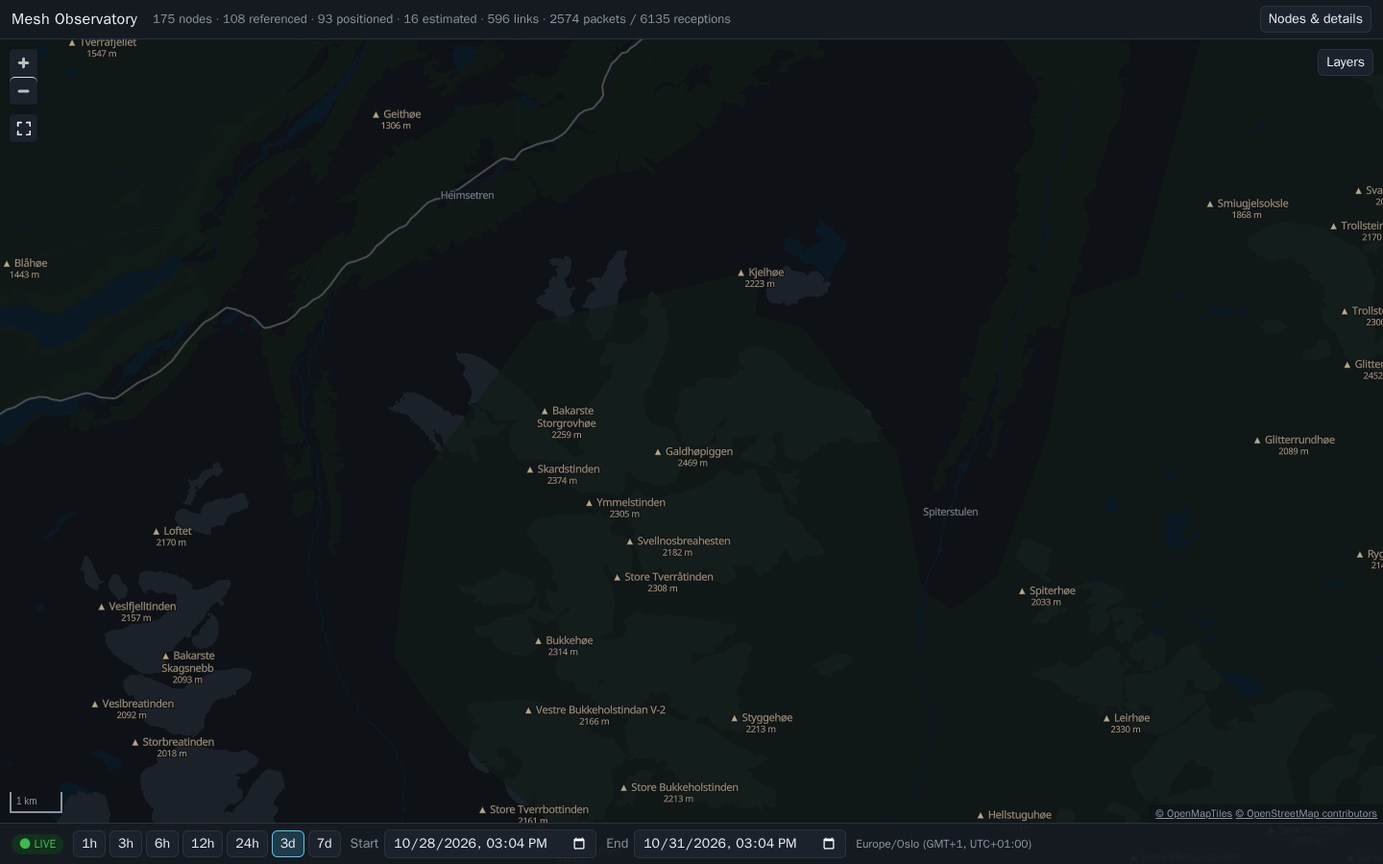
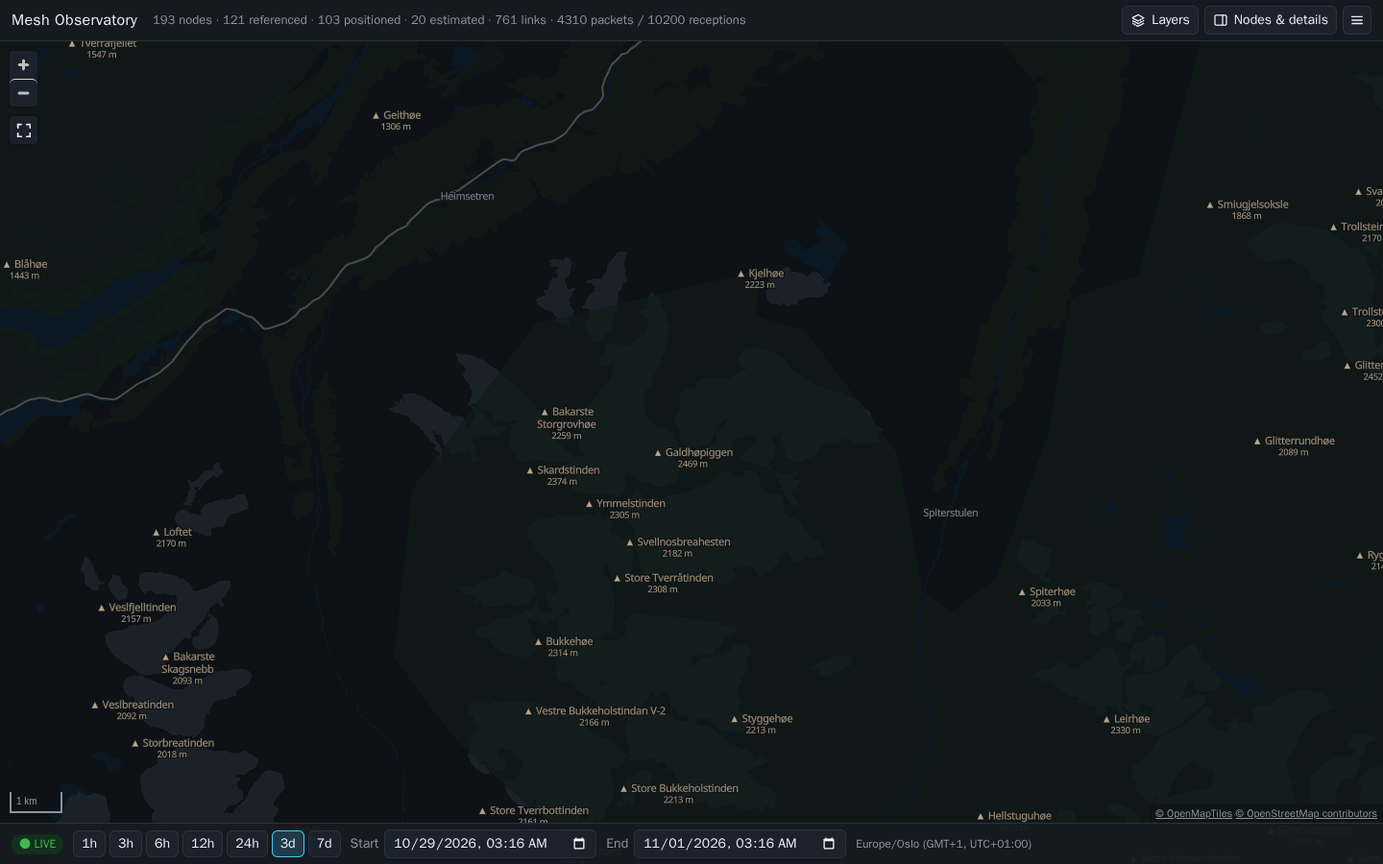
Gather app controls in the top bar; theme and site links in a menu
Layers, the side panel toggle and a new menu sit together at the right of
the top bar; the menu holds Theme (Auto/Light/Dark), Install app and the
links to source code, license and privacy policy. The map keeps only map
controls and the required map credits (D-052). Docs screenshots refreshed.

diff --git a/frontend/src/index.css b/frontend/src/index.css
@@ -79,7 +79,7 @@ button[aria-pressed='true'], button[aria-selected='true'] { background: var(--pr
 
 /* overflow: hidden clips the collapsed time bar, which is translated below the viewport. */
 .app { position: relative; display: grid; grid-template-rows: auto 1fr; height: 100%; overflow: hidden; --tl-peek: 52px; }
-.topbar { display: flex; align-items: center; gap: 16px; padding: 6px 12px; border-bottom: 1px solid var(--line); background: var(--panel); min-height: 40px; }
+.topbar { position: relative; z-index: 10; display: flex; align-items: center; gap: 16px; padding: 6px 12px; border-bottom: 1px solid var(--line); background: var(--panel); min-height: 40px; }
 .topbar h1 { font-size: 16px; margin: 0; letter-spacing: 0.02em; }
 .counters { color: var(--muted); font-size: 13px; }
 .spinner { width: 12px; height: 12px; border: 2px solid var(--line); border-top-color: var(--accent); border-radius: 50%; animation: spin 0.8s linear infinite; }
@@ -89,23 +89,33 @@ button[aria-pressed='true'], button[aria-selected='true'] { background: var(--pr
 .sidebar[hidden] { display: none; }
 /* The side panel overlays the map (no resize). Map controls on the right
    move clear of it while it is open. */
-.main:not(.panel-closed) .map-tools, .main:not(.panel-closed) .layers-panel, .main:not(.panel-closed) .coords { right: 390px; }
+.main:not(.panel-closed) .coords { right: 390px; }
 .main:not(.panel-closed) .attribution { right: 380px; }
-.panel-toggle { margin-left: auto; }
-.install-btn { margin-left: auto; }
-.install-btn + .panel-toggle { margin-left: 0; }
-.topbar-link { display: grid; place-items: center; color: var(--muted); padding: 4px; border-radius: 6px; }
-.topbar-link:hover { color: var(--text); }
+/* Every app control lives here, right-aligned: map layers, the side panel and the menu. */
+.topbar-actions { position: relative; margin-left: auto; display: flex; align-items: center; gap: 6px; }
+.topbar-actions > button { display: inline-flex; align-items: center; gap: 6px; height: 30px; }
+.topbar-actions > .icon-btn { width: 30px; justify-content: center; padding: 0; }
+/* Popovers drop from the top bar, over the map and the side panel. */
+.popover { position: absolute; top: calc(100% + 8px); right: 0; width: 260px; max-height: calc(100vh - 120px); overflow: auto; background: var(--overlay-strong); border: 1px solid var(--line); border-radius: 6px; padding: 4px 12px 10px; box-shadow: 0 6px 18px var(--shadow); }
+.popover h3 { font-size: 12px; text-transform: uppercase; letter-spacing: 0.06em; color: var(--muted); margin: 10px 0 4px; }
+.popover label { display: block; margin: 3px 0; }
+.segmented { display: flex; border: 1px solid var(--line); border-radius: 6px; overflow: hidden; }
+.segmented label { position: relative; flex: 1; margin: 0; text-align: center; cursor: pointer; }
+/* The radio covers its segment, invisible: clicks and keyboard reach it as usual. */
+.segmented input { position: absolute; inset: 0; width: 100%; height: 100%; margin: 0; opacity: 0; cursor: pointer; }
+.segmented span { display: block; padding: 4px 6px; font-size: 13px; }
+.segmented label + label span { border-left: 1px solid var(--line); }
+.segmented input:checked + span { background: var(--pressed); color: var(--text); }
+.segmented input:focus-visible + span { outline: 2px solid var(--accent); outline-offset: -2px; }
+.menu-item { display: block; width: 100%; text-align: left; padding: 5px 2px; color: var(--text); background: none; border: 0; border-radius: 4px; text-decoration: none; }
+.menu-item:hover { color: var(--accent); }
+.menu-foot { margin: 8px 0 0; font-size: 12px; }
 .map-wrap { position: relative; min-height: 0; }
 .map { position: absolute; inset: 0; }
-.map-tools { position: absolute; top: 10px; right: 10px; display: flex; gap: 6px; }
 /* Sits under MapLibre's zoom buttons (top-left), styled as one of them. */
 .fit-ctrl { position: absolute; top: 78px; left: 10px; margin: 0 !important; z-index: 2; }
 .fit-ctrl button { display: grid; place-items: center; color: var(--text); border: none; border-radius: 4px; padding: 0; width: 29px; height: 29px; background: transparent; }
 .fit-ctrl button:disabled { opacity: 0.35; }
-.layers-panel { position: absolute; top: 46px; right: 10px; z-index: 6; width: 240px; max-height: calc(100% - 90px); overflow: auto; background: var(--overlay-strong); border: 1px solid var(--line); border-radius: 6px; padding: 4px 12px 10px; }
-.layers-panel h3 { font-size: 12px; text-transform: uppercase; letter-spacing: 0.06em; color: var(--muted); margin: 10px 0 4px; }
-.layers-panel label { display: block; margin: 3px 0; }
 .attribution { position: absolute; right: 0; bottom: 0; font-size: 11px; background: var(--overlay); padding: 2px 6px; color: var(--muted); }
 .attribution a { color: var(--muted); }
 .coords { position: absolute; bottom: 28px; right: 10px; font: 12px ui-monospace, monospace; color: var(--muted); background: var(--overlay); padding: 2px 6px; border-radius: 4px; }
@@ -233,11 +243,16 @@ table.hear th, table.hear td { text-align: left; padding: 2px 4px; border-bottom
 @media (max-width: 820px) {
   /* Bottom sheet over the map. */
   .sidebar { top: auto; left: 0; width: auto; height: 45vh; border-left: none; border-top: 1px solid var(--line); box-shadow: 0 -6px 18px var(--shadow); }
-  .main:not(.panel-closed) .map-tools, .main:not(.panel-closed) .layers-panel, .main:not(.panel-closed) .coords { right: 10px; }
+  .main:not(.panel-closed) .coords { right: 10px; }
   .main:not(.panel-closed) .attribution { right: 0; bottom: calc(45vh + var(--tl-peek)) !important; }
   .banners, .main:not(.panel-closed) .banners { right: 10px; left: 10px; }
   .counters { display: none; }
   .readout { min-width: 0; }
+}
+/* Phones: the top-bar buttons show only their icons. */
+@media (max-width: 560px) {
+  .btn-label { display: none; }
+  .topbar-actions > button { width: 30px; justify-content: center; padding: 0; }
 }
 @media (prefers-reduced-motion: reduce) {
   .spinner { animation: none; }

diff --git a/frontend/src/App.tsx b/frontend/src/App.tsx
@@ -6,13 +6,13 @@ import { addTransmission, clearPings, painting, pingWanted, setPingPositions } f
 import Timeline from './timeline/Timeline'
 import { usePwa } from './pwa'
 import { EdgePanel, NodeList, NodePanel } from './features/panels'
-import { FilterPanel, Legend } from './features/controls'
+import { FilterPanel, LayersPanel, Legend } from './features/controls'
+import { AppMenu } from './features/menu'
 import { useCapabilities, useLiveEpoch, useRetention, useSnapshot, useTraffic } from './state/data'
 import { initDerive, onTransmissions, sendLiveRows } from './derive/client'
 import { apiParams, defaultFilters, fromQuery, toQuery, useStore, type Filters } from './state/store'
 import type { ObsRow } from './api/types'
 import { applyTheme, useTheme } from './theme'
-import { REPO_URL } from './links'
 
 /** A live row passes the view filters (the stream itself is unfiltered). */
 function passes(r: ObsRow, f: Filters): boolean {
@@ -37,6 +37,23 @@ export default function App() {
   const geo = useRef<Map<string, [number, number]>>(new Map())
   const theme = useTheme()
   useEffect(() => applyTheme(theme), [theme])
+  // One top-bar popover at a time; Escape or a click elsewhere closes it.
+  const [popover, setPopover] = useState<'layers' | 'menu' | null>(null)
+  const actions = useRef<HTMLDivElement>(null)
+  useEffect(() => {
+    if (!popover) return
+    const away = (e: Event) => {
+      if (!actions.current?.contains(e.target as Node)) setPopover(null)
+    }
+    const esc = (e: KeyboardEvent) => e.key === 'Escape' && setPopover(null)
+    document.addEventListener('pointerdown', away)
+    document.addEventListener('keydown', esc)
+    return () => {
+      document.removeEventListener('pointerdown', away)
+      document.removeEventListener('keydown', esc)
+    }
+  }, [popover])
+  const toggleOpen = (p: 'layers' | 'menu') => setPopover((o) => (o === p ? null : p))
   const onPositions = useCallback((pos: Map<string, [number, number]>) => {
     geo.current = pos
     setPingPositions(pos) // pings follow the markers as estimates move
@@ -163,15 +180,21 @@ export default function App() {
           </span>
         )}
         {snap.isFetching && <span className="spinner" aria-label="Updating" />}
-        {canInstall && <button className="install-btn" onClick={install} title="Install Mesh Observatory as an app on this device">Install app</button>}
-        <button className="panel-toggle" aria-expanded={panelOpen} aria-controls="sidebar" onClick={togglePanel} title={panelOpen ? 'Hide the side panel' : 'Show nodes, details, filters and legend'}>
-          {panelOpen ? 'Hide panel' : 'Nodes & details'}
-        </button>
-        <a className="topbar-link" href={REPO_URL} target="_blank" rel="noreferrer" title="Source code on GitHub (GPL-3.0)" aria-label="Source code on GitHub">
-          <svg viewBox="0 0 16 16" width="18" height="18" aria-hidden="true" fill="currentColor">
-            <path d="M8 0C3.58 0 0 3.58 0 8c0 3.54 2.29 6.53 5.47 7.59.4.07.55-.17.55-.38 0-.19-.01-.82-.01-1.49-2.01.37-2.53-.49-2.69-.94-.09-.23-.48-.94-.82-1.13-.28-.15-.68-.52-.01-.53.63-.01 1.08.58 1.23.82.72 1.21 1.87.87 2.33.66.07-.52.28-.87.51-1.07-1.78-.2-3.64-.89-3.64-3.95 0-.87.31-1.59.82-2.15-.08-.2-.36-1.02.08-2.12 0 0 .67-.21 2.2.82.64-.18 1.32-.27 2-.27.68 0 1.36.09 2 .27 1.53-1.04 2.2-.82 2.2-.82.44 1.1.16 1.92.08 2.12.51.56.82 1.27.82 2.15 0 3.07-1.87 3.75-3.65 3.95.29.25.54.73.54 1.48 0 1.07-.01 1.93-.01 2.2 0 .21.15.46.55.38A8.013 8.013 0 0016 8c0-4.42-3.58-8-8-8z" />
-          </svg>
-        </a>
+        <div className="topbar-actions" ref={actions}>
+          <button aria-expanded={popover === 'layers'} aria-controls="layers-panel" aria-label="Layers" onClick={() => toggleOpen('layers')} title="Choose what the map shows">
+            <svg viewBox="0 0 20 20" width="16" height="16" aria-hidden="true" fill="none" stroke="currentColor" strokeWidth="1.6" strokeLinejoin="round"><path d="M10 3 2.5 7 10 11l7.5-4L10 3Z" /><path d="m2.5 10.5 7.5 4 7.5-4" /><path d="m2.5 14 7.5 4 7.5-4" /></svg>
+            <span className="btn-label">Layers</span>
+          </button>
+          <button className="panel-toggle" aria-expanded={panelOpen} aria-controls="sidebar" aria-label={panelOpen ? 'Hide panel' : 'Nodes & details'} onClick={togglePanel} title={panelOpen ? 'Hide the side panel' : 'Show nodes, details, filters and legend'}>
+            <svg viewBox="0 0 20 20" width="16" height="16" aria-hidden="true" fill="none" stroke="currentColor" strokeWidth="1.6"><rect x="2.5" y="3.5" width="15" height="13" rx="2" /><path d="M12.5 3.5v13" /></svg>
+            <span className="btn-label">{panelOpen ? 'Hide panel' : 'Nodes & details'}</span>
+          </button>
+          <button className="icon-btn" aria-expanded={popover === 'menu'} aria-controls="app-menu" aria-label="Menu" onClick={() => toggleOpen('menu')} title="Theme, install, source code, license and privacy">
+            <svg viewBox="0 0 20 20" width="16" height="16" aria-hidden="true" fill="none" stroke="currentColor" strokeWidth="1.8" strokeLinecap="round"><path d="M3.5 5.5h13M3.5 10h13M3.5 14.5h13" /></svg>
+          </button>
+          {popover === 'layers' && <LayersPanel id="layers-panel" onClose={() => setPopover(null)} />}
+          {popover === 'menu' && <AppMenu id="app-menu" onClose={() => setPopover(null)} canInstall={canInstall} install={install} />}
+        </div>
       </header>
       <main className={`main${panelOpen ? '' : ' panel-closed'}`}>
         <MapView caps={caps.data} snapshot={snap.data} onPositions={onPositions} />

diff --git a/frontend/src/features/controls.tsx b/frontend/src/features/controls.tsx
@@ -2,9 +2,7 @@ import type { SnapshotBody } from '../api/types'
 import { useStore, type Confidence } from '../state/store'
 import { AGE_STOPS, roleRadius } from '../map/model'
 import { BASEMAP_GROUPS } from '../map/layers'
-import type { ThemeChoice } from '../theme'
 
-const THEMES: [ThemeChoice, string][] = [['system', 'Follow browser'], ['light', 'Light'], ['dark', 'Dark']]
 const TYPES = ['nodeinfo', 'position', 'telemetry', 'neighborinfo', 'traceroute', 'text', 'routing', 'other']
 const EVIDENCE: [string, string][] = [['neighbor', 'NeighborInfo'], ['traceroute', 'Traceroute'], ['direct_rf', 'Direct gateway RF'], ['relay_hint', 'Inferred last hop']]
 
@@ -23,7 +21,7 @@ export function LayersPanel({ id, onClose }: { id: string; onClose: () => void }
     </label>
   )
   return (
-    <div id={id} className="layers-panel" role="dialog" aria-label="Map layers" onKeyDown={(e) => e.key === 'Escape' && onClose()}>
+    <div id={id} className="popover layers-panel" role="dialog" aria-label="Map layers" onKeyDown={(e) => e.key === 'Escape' && onClose()}>
       <button className="close" onClick={onClose} aria-label="Close layers">×</button>
       <h3>Mesh</h3>
       {check('Infrastructure links (router ↔ router)', t.infraLinks, (v) => setT({ infraLinks: v }),
@@ -40,14 +38,6 @@ export function LayersPanel({ id, onClose }: { id: string; onClose: () => void }
         'Live radar pings: each soft ring is one radio transmission, growing to enclose the nodes known to have heard it directly, while a bright line travels along each link to those nodes, arriving with the ring. Blue: first broadcast by the originating node; amber: rebroadcast by a relay. The ring fades with measured signal strength. Live window only.')}
       <h3>Map</h3>
       {BASEMAP_GROUPS.map((g) => check(g.label, t.basemap[g.id], (v) => setT({ basemap: { [g.id]: v } }), g.info))}
-      <h3 id={`${id}-theme`}>Theme</h3>
-      <div role="radiogroup" aria-labelledby={`${id}-theme`}>
-        {THEMES.map(([v, label]) => (
-          <label key={v} title="Colours of the map and panels. Follow browser uses your device's light or dark setting and changes with it.">
-            <input type="radio" name={`${id}-theme`} value={v} checked={t.theme === v} onChange={() => setT({ theme: v })} /> {label}
-          </label>
-        ))}
-      </div>
     </div>
   )
 }

diff --git a/frontend/src/features/menu.tsx b/frontend/src/features/menu.tsx
@@ -1,0 +1,39 @@
+// The app menu (top bar, ☰): display settings, installing the app, and what
+// the site is: source code, license and privacy policy.
+import { useStore } from '../state/store'
+import type { ThemeChoice } from '../theme'
+import { LICENSE_HREF, PRIVACY_URL, SOURCE_HREF, SOURCE_REVISION } from '../links'
+
+const THEMES: [ThemeChoice, string][] = [['system', 'Auto'], ['light', 'Light'], ['dark', 'Dark']]
+
+export function AppMenu({ id, onClose, canInstall, install }: { id: string; onClose: () => void; canInstall: boolean; install: () => void }) {
+  const theme = useStore((s) => s.toggles.theme)
+  const setT = useStore((s) => s.setToggles)
+  return (
+    <div id={id} className="popover menu" role="dialog" aria-label="Menu" onKeyDown={(e) => e.key === 'Escape' && onClose()}>
+      <button className="close" onClick={onClose} aria-label="Close menu">×</button>
+      <h3 id={`${id}-theme`}>Theme</h3>
+      <div className="segmented" role="radiogroup" aria-labelledby={`${id}-theme`}>
+        {THEMES.map(([v, label]) => (
+          <label key={v} title={v === 'system' ? 'Follow your browser\'s light or dark setting' : undefined}>
+            <input type="radio" name={`${id}-theme`} value={v} checked={theme === v} onChange={() => setT({ theme: v })} />
+            <span>{label}</span>
+          </label>
+        ))}
+      </div>
+      {canInstall && (
+        <>
+          <h3>App</h3>
+          <button className="menu-item" onClick={() => { install(); onClose() }}>Install Mesh Observatory on this device</button>
+        </>
+      )}
+      <h3>About</h3>
+      <nav aria-label="About this site">
+        <a className="menu-item" href={SOURCE_HREF} target="_blank" rel="noreferrer">Source code on GitHub ↗</a>
+        <a className="menu-item" href={LICENSE_HREF} target="_blank" rel="noreferrer">License: GNU GPL v3 ↗</a>
+        <a className="menu-item" href={PRIVACY_URL} target="_blank" rel="noreferrer">Privacy policy ↗</a>
+      </nav>
+      {SOURCE_REVISION && <p className="muted menu-foot">Version {SOURCE_REVISION.slice(0, 7)}</p>}
+    </div>
+  )
+}

diff --git a/frontend/src/map/MapView.tsx b/frontend/src/map/MapView.tsx
@@ -15,8 +15,6 @@ import { useCamera } from './camera'
 import { clusterLabels, type Cluster, type LabelDatum } from './labels'
 import { usePacketRoute } from '../state/data'
 import { installTestHook } from './testHook'
-import { LayersPanel } from '../features/controls'
-import { PRIVACY_URL, SOURCE_HREF } from '../links'
 import { useTheme, type Theme } from '../theme'
 import { PALETTES } from './palette'
 
@@ -39,7 +37,6 @@ export default function MapView({ caps, snapshot, onPositions }: Props) {
   const [cursor, setCursor] = useState<string>('')
   const [zoom, setZoom] = useState(caps.map.zoom)
   const [bounds, setBounds] = useState<[number, number, number, number] | null>(null)
-  const [layersOpen, setLayersOpen] = useState(false)
   const filters = useStore((s) => s.filters)
   const toggles = useStore((s) => s.toggles)
   const selection = useStore((s) => s.selection)
@@ -256,18 +253,10 @@ export default function MapView({ caps, snapshot, onPositions }: Props) {
           </svg>
         </button>
       </div>
-      <div className="map-tools">
-        <button aria-expanded={layersOpen} aria-controls="layers-panel" onClick={() => setLayersOpen((o) => !o)} title="Choose what the map shows">Layers</button>
-      </div>
-      {layersOpen && <LayersPanel id="layers-panel" onClose={() => setLayersOpen(false)} />}
       {cursor && <div className="coords" aria-hidden>{cursor}</div>}
       <div className="attribution">
         <a href="https://openmaptiles.org/" target="_blank" rel="noreferrer">© OpenMapTiles</a>{' '}
         <a href="https://www.openstreetmap.org/copyright" target="_blank" rel="noreferrer">© OpenStreetMap contributors</a>
-        {' · '}
-        <a href={SOURCE_HREF} target="_blank" rel="noreferrer" title="This map is free software under the GNU GPL v3; its source code">Source (GPL-3.0)</a>
-        {' · '}
-        <a href={PRIVACY_URL} target="_blank" rel="noreferrer">Privacy</a>
       </div>
       {hover && (
         <div className="tooltip" style={{ left: hover.x + 12, top: hover.y + 12 }} role="tooltip">

diff --git a/frontend/e2e/privacy.spec.ts b/frontend/e2e/privacy.spec.ts
@@ -1,11 +1,23 @@
 import { expect, test } from '@playwright/test'
 
-// D-051: the privacy policy and the source code are one click away, and the
-// policy states this deployment's own settings.
-test('links to the privacy policy and the GitHub repository', async ({ page }) => {
+// D-051, D-052: the menu in the top bar holds the theme and the links about
+// the site; the policy states this deployment's own settings.
+test('the menu holds the theme, source code, license and privacy policy', async ({ page }) => {
   await page.goto('/')
-  await expect(page.getByRole('link', { name: 'Source code on GitHub' })).toHaveAttribute('href', /^https:\/\/github\.com\/868-no\/map/)
-  await expect(page.locator('.attribution').getByRole('link', { name: 'Privacy' })).toHaveAttribute('href', '/privacy.html')
+  await page.getByRole('button', { name: 'Menu' }).click()
+  const menu = page.getByRole('dialog', { name: 'Menu' })
+  await expect(menu.getByRole('radiogroup', { name: 'Theme' })).toBeVisible()
+  await expect(menu.getByRole('link', { name: /Source code on GitHub/ })).toHaveAttribute('href', /^https:\/\/github\.com\/868-no\/map/)
+  await expect(menu.getByRole('link', { name: /License/ })).toHaveAttribute('href', /\/LICENSE$/)
+  await expect(menu.getByRole('link', { name: /Privacy policy/ })).toHaveAttribute('href', '/privacy.html')
+  // One popover at a time; Escape closes it.
+  await page.getByRole('button', { name: 'Layers' }).click()
+  await expect(menu).toHaveCount(0)
+  await expect(page.getByRole('dialog', { name: 'Map layers' })).toBeVisible()
+  await page.keyboard.press('Escape')
+  await expect(page.getByRole('dialog', { name: 'Map layers' })).toHaveCount(0)
+  // The map's credit line carries only the required map credits.
+  await expect(page.locator('.attribution')).toHaveText('© OpenMapTiles © OpenStreetMap contributors')
 })
 
 test('the privacy policy fills in retention and operator details from the API', async ({ page, request }) => {

diff --git a/frontend/e2e/app.spec.ts b/frontend/e2e/app.spec.ts
@@ -47,8 +47,8 @@ test('follows the browser theme, and a chosen theme overrides it from the first 
   await expect.poll(() => mapBg(page)).toBe('#f3f1ec')
   await expect(page.locator('.topbar h1')).toHaveText('Mesh Observatory')
 
-  await page.getByRole('button', { name: 'Layers' }).click()
-  await page.getByRole('dialog', { name: 'Map layers' }).getByLabel('Dark').check()
+  await page.getByRole('button', { name: 'Menu' }).click()
+  await page.getByRole('dialog', { name: 'Menu' }).getByLabel('Dark').check()
   await expect.poll(() => pageBg(page)).toBe('rgb(14, 17, 22)')
   await expect.poll(() => mapBg(page)).toBe('#0e1116')
 
@@ -58,8 +58,8 @@ test('follows the browser theme, and a chosen theme overrides it from the first 
   expect(await page.evaluate(() => document.documentElement.dataset.theme)).toBe('dark')
 
   await page.waitForFunction(() => !!(window as unknown as { __meshmap?: unknown }).__meshmap, null, { timeout: 30_000 })
-  await page.getByRole('button', { name: 'Layers' }).click()
-  await page.getByRole('dialog', { name: 'Map layers' }).getByLabel('Follow browser').check()
+  await page.getByRole('button', { name: 'Menu' }).click()
+  await page.getByRole('dialog', { name: 'Menu' }).getByLabel('Auto').check()
   await expect.poll(() => pageBg(page)).toBe('rgb(246, 247, 249)')
   await expect.poll(() => mapBg(page)).toBe('#f3f1ec')
 })

diff --git a/frontend/src/links.ts b/frontend/src/links.ts
@@ -1,8 +1,11 @@
-// Links shown on every page. The map is GPL-3.0 (it builds on Meshtastic's
-// GPL protobufs): every visitor gets the compiled frontend, so the page links
-// to its corresponding source, at the commit the image was built from when
-// known (VITE_SOURCE_URL / VITE_SOURCE_REVISION, set by the web image build).
+// Links about the site itself (in the app menu). The map is GPL-3.0 (it
+// builds on Meshtastic's GPL protobufs): every visitor gets the compiled
+// frontend, so it links to its corresponding source, at the commit the image
+// was built from when known (VITE_SOURCE_URL / VITE_SOURCE_REVISION, set by
+// the web image build).
 export const REPO_URL = import.meta.env.VITE_SOURCE_URL || 'https://github.com/868-no/map'
-export const SOURCE_HREF = import.meta.env.VITE_SOURCE_REVISION ? `${REPO_URL}/tree/${import.meta.env.VITE_SOURCE_REVISION}` : REPO_URL
+export const SOURCE_REVISION = import.meta.env.VITE_SOURCE_REVISION || ''
+export const SOURCE_HREF = SOURCE_REVISION ? `${REPO_URL}/tree/${SOURCE_REVISION}` : REPO_URL
+export const LICENSE_HREF = `${REPO_URL}/blob/${SOURCE_REVISION || 'main'}/LICENSE`
 /** The privacy policy: a static page next to the app (public/privacy.html). */
 export const PRIVACY_URL = '/privacy.html'

diff --git a/docs/decisions.md b/docs/decisions.md
@@ -406,3 +406,11 @@ Operator request. This reverses the spec's dark-only design.
 - **Repository link:** a GitHub icon in the top bar, next to the existing "Source (GPL-3.0)" link (D-050).
 - **Privacy policy:** a static page, `/privacy.html`, linked from the attribution bar. It is readable without the app and linkable. `privacy.js` fills in this deployment's operator (`OPERATOR_NAME`, `OPERATOR_CONTACT`, new in capabilities), retention, geolocation and tile source. What it says about visitors was checked against the code: IPs are held only in the rate limiter's memory, dropped after 10 idle minutes, and never logged; the Caddy image keeps no access log; there are no cookies; browser storage holds settings, data and the app shell. The service worker used to cache every navigation as `/index.html`, which would have stored the policy as the offline app; precached pages are now cached under their own path.
 - **Found while writing it:** "message bodies are never stored" was only true of `decoded_metadata`. `envelope_bytes` keeps the raw envelope: encrypted text messages, readable with the public default key, and plain text from gateways that uplink decrypted packets. The policy and `architecture.md` now say so; whether to keep it is the operator's decision.
+
+## D-052 One home for app controls (2026-11-01)
+
+Operator feedback: the GitHub link, privacy, license, Layers and the side panel toggle were scattered over the top bar, the map and its credit line, and Theme had ended up among the map layers. Now:
+- **Top bar, right:** every app control sits together. Layers (map layers only), the side panel toggle (Nodes & details / Hide panel), and a menu (☰). Each has an icon and a label; phones show the icons only.
+- **Menu:** Theme (Auto, Light, Dark; Auto follows the browser), Install app when the browser offers it, and About links: source code on GitHub (at the built commit), license (GNU GPL v3) and privacy policy. It also shows the version.
+- **Popovers:** Layers and the menu drop from the top bar over the map and the side panel. Only one is open at a time, and Escape or a click elsewhere closes it.
+- **Map:** keeps only map controls (zoom, fit, scale). Its credit line is back to the required OpenMapTiles and OpenStreetMap credits.

diff --git a/README.md b/README.md
@@ -9,7 +9,7 @@ An interactive map, in light and dark themes, for observing Meshtastic mesh netw
 - **Live pings:** each transmission heard live animates as a ring at the transmitter; packets addressed to one node also animate a line to each direct receiver (D-047). The link layers start switched off.
 - **Honest positions:** reported positions only from in-window packets. Estimates need ≥ 3 well-spaced anchors and are drawn as hollow markers with an uncertainty circle; there are no guessed pins.
 - **Crypto:** AES-CTR and firmware 2.8.1+ AES-CCM channels, firmware-compatible XEdDSA verification with trust-on-first-use, and per-packet status (`verified`, `unsigned`, `unverifiable`, `not-applicable`). Verified against real firmware 2.8 traffic.
-- **Light and dark themes:** follows the browser's setting by default; viewers can pick one under Layers.
+- **Light and dark themes:** follows the browser's setting by default (Auto); viewers can pick Light or Dark in the menu (☰).
 - **Privacy:** no accounts, cookies, analytics or third-party requests; a [privacy policy](frontend/public/privacy.html) at `/privacy.html` fills in the deployment's operator, contact and retention from the API.
 - **Installable and offline-capable:** add it to a phone's home screen; without a connection it opens with the last data it received (map tiles are not stored offline).
 - **Self-hosted:** Docker Compose, a self-hosted PMTiles basemap with switchable layers (place, peak, road and border labels; most names hidden by default), no external services at runtime apart from the basemap service's OpenStreetMap downloads when it builds.
